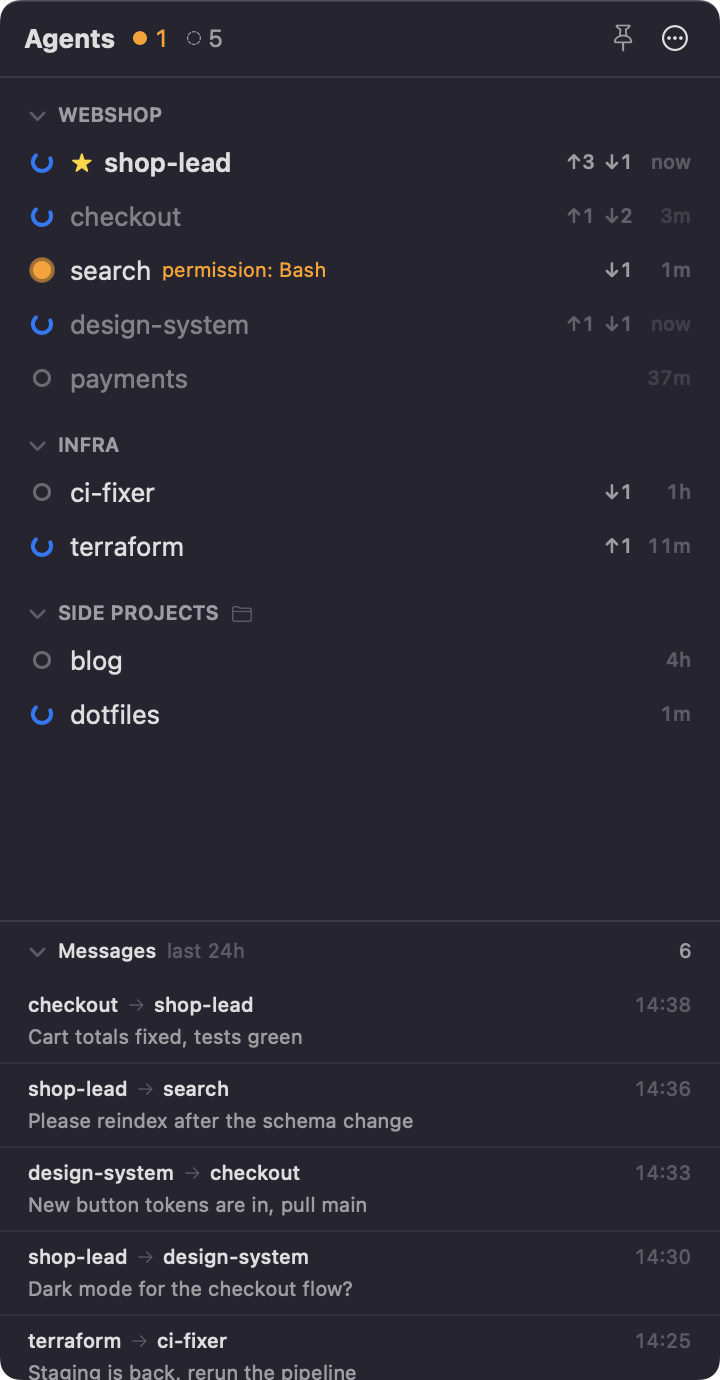
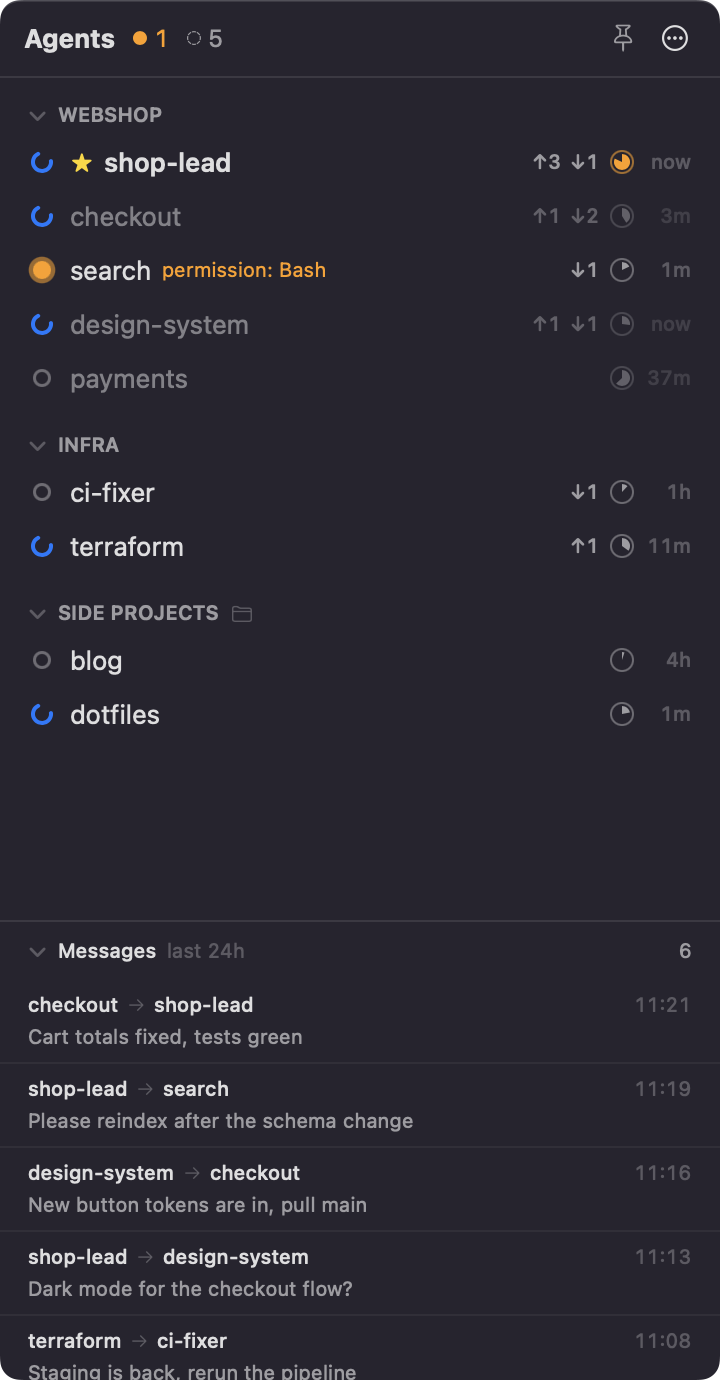
Show each session's context window usage
A small pie per agent shows how full its context window is, computed
like Claude Code does (input + cache creation + cache read tokens of the
latest main-thread response). It turns orange from 70%; hover for exact
token counts. The window size is inferred: 1M for [1m] models, model
families that default to 1M, or sessions already past 200k.

diff --git a/Sources/MaitreDAgent/Store.swift b/Sources/MaitreDAgent/Store.swift
@@ -43,6 +43,9 @@ final class Worker: @unchecked Sendable {
             Markers.remove(sessionId)
         }
 
+        // Read transcripts before building agents so context usage is current.
+        let raw = extra + transcripts.poll(sessionIds: entries.map(\.sessionId))
+
         var usedKeys = Set<String>()
         var agents: [Agent] = []
         for entry in entries {
@@ -70,11 +73,13 @@ final class Worker: @unchecked Sendable {
             agents.append(Agent(
                 sessionId: entry.sessionId, pid: entry.pid, key: key, name: name, cwd: entry.cwd,
                 repoRoot: root, entrypoint: entry.entrypoint, status: status, waitReason: waitReason,
-                reportedSince: since
+                reportedSince: since,
+                context: transcripts.contextTokens[entry.sessionId].map {
+                    ContextUsage(tokens: $0.tokens, window: ContextUsage.window(model: $0.model, peakTokens: $0.peak))
+                }
             ))
         }
 
-        let raw = extra + transcripts.poll(sessionIds: entries.map(\.sessionId))
         let liveNames = Dictionary(entries.map { ($0.sessionId, $0.name) }, uniquingKeysWith: { a, _ in a })
         let messages = raw.map { m in
             AgentMessage(
@@ -413,24 +418,25 @@ final class Store: ObservableObject {
 
 extension Store {
     func loadDemo(pretentious: Bool) {
-        func agent(_ repo: String, _ name: String, _ status: AgentStatus, _ minutes: Double, _ reason: WaitReason? = nil) -> Agent {
+        func agent(_ repo: String, _ name: String, _ status: AgentStatus, _ minutes: Double, _ context: Double, _ reason: WaitReason? = nil) -> Agent {
             var agent = Agent(
                 sessionId: UUID().uuidString, pid: 0, key: "/demo/\(repo)|\(name)", name: name, cwd: "/demo/\(repo)",
-                repoRoot: "/demo/\(repo)", entrypoint: "claude-vscode", status: status, waitReason: reason, reportedSince: nil
+                repoRoot: "/demo/\(repo)", entrypoint: "claude-vscode", status: status, waitReason: reason, reportedSince: nil,
+                context: ContextUsage(tokens: Int(context * 1_000_000), window: 1_000_000)
             )
             agent.since = Date().addingTimeInterval(-minutes * 60)
             return agent
         }
         agents = [
-            agent("webshop", "shop-lead", .working, 1),
-            agent("webshop", "checkout", .working, 4),
-            agent("webshop", "search", .needsMe, 2, .permission(tool: "Bash")),
-            agent("webshop", "design-system", .working, 0),
-            agent("webshop", "payments", .idle, 38),
-            agent("infra", "terraform", .working, 12),
-            agent("infra", "ci-fixer", .idle, 95),
-            agent("blog", "blog", .idle, 300),
-            agent("dotfiles", "dotfiles", .working, 2),
+            agent("webshop", "shop-lead", .working, 1, 0.82),
+            agent("webshop", "checkout", .working, 4, 0.41),
+            agent("webshop", "search", .needsMe, 2, 0.18, .permission(tool: "Bash")),
+            agent("webshop", "design-system", .working, 0, 0.27),
+            agent("webshop", "payments", .idle, 38, 0.63),
+            agent("infra", "terraform", .working, 12, 0.35),
+            agent("infra", "ci-fixer", .idle, 95, 0.12),
+            agent("blog", "blog", .idle, 300, 0.05),
+            agent("dotfiles", "dotfiles", .working, 2, 0.22),
         ]
 
         func message(_ minutes: Double, _ from: String, _ to: String, _ summary: String, _ text: String = "") -> AgentMessage {

diff --git a/Sources/MaitreDAgent/Sources.swift b/Sources/MaitreDAgent/Sources.swift
@@ -142,6 +142,7 @@ final class Transcripts {
     private static let maxScan: UInt64 = 16 << 20
     private static let sendPattern = Data(#""name":"SendMessage""#.utf8)
     private static let namePattern = Data(#""type":"agent-name""#.utf8)
+    private static let usagePattern = Data(#""cache_read_input_tokens""#.utf8)
     private static let newline = UInt8(ascii: "\n")
 
     private struct Tail {
@@ -154,6 +155,8 @@ final class Transcripts {
     private var seen = Set<String>()
     /// Session names recorded in transcripts, for senders that are no longer running.
     private(set) var agentNames: [String: String] = [:]
+    /// Context tokens of each session's latest main-thread API response, plus its model and peak.
+    private(set) var contextTokens: [String: (tokens: Int, model: String, peak: Int)] = [:]
 
     private let isoFull: ISO8601DateFormatter = {
         let f = ISO8601DateFormatter()
@@ -231,6 +234,10 @@ final class Transcripts {
     }
 
     private func parse(_ data: Data, sessionId: String) -> [RawMessage] {
+        if let usage = latestUsage(in: data) {
+            let peak = max(usage.tokens, contextTokens[sessionId]?.peak ?? 0)
+            contextTokens[sessionId] = (usage.tokens, usage.model, peak)
+        }
         var messages: [RawMessage] = []
         for line in lines(in: data, containing: Self.namePattern) {
             if let obj = (try? JSONSerialization.jsonObject(with: line)) as? [String: Any],
@@ -269,6 +276,29 @@ final class Transcripts {
             }
         }
         return messages
+    }
+
+    /// The last main-thread assistant response with token usage in this chunk.
+    private func latestUsage(in data: Data) -> (tokens: Int, model: String)? {
+        var searchEnd = data.endIndex
+        while searchEnd > data.startIndex,
+              let match = data.range(of: Self.usagePattern, options: .backwards, in: data.startIndex..<searchEnd) {
+            var start = match.lowerBound
+            while start > data.startIndex && data[start - 1] != Self.newline { start -= 1 }
+            let end = data[match.upperBound...].firstIndex(of: Self.newline) ?? data.endIndex
+            searchEnd = start
+            guard let obj = (try? JSONSerialization.jsonObject(with: data[start..<end])) as? [String: Any],
+                  obj["type"] as? String == "assistant",
+                  obj["isSidechain"] as? Bool != true,
+                  let message = obj["message"] as? [String: Any],
+                  let usage = message["usage"] as? [String: Any] else { continue }
+            let model = message["model"] as? String ?? ""
+            let tokens = ["input_tokens", "cache_creation_input_tokens", "cache_read_input_tokens"]
+                .reduce(0) { $0 + ((usage[$1] as? Int) ?? 0) }
+            if tokens == 0 || model.hasPrefix("<") { continue } // synthetic messages
+            return (tokens, model)
+        }
+        return nil
     }
 
     /// Whole lines that contain the pattern, without splitting every line of a large chunk.

diff --git a/Sources/MaitreDAgent/Views.swift b/Sources/MaitreDAgent/Views.swift
@@ -308,6 +308,9 @@ private struct AgentRow: View {
                 }
                 Spacer(minLength: 4)
                 MessageBadges(sent: store.sentCounts[agent.name] ?? 0, received: store.receivedCounts[agent.name] ?? 0, copy: store.copy)
+                if let context = agent.context {
+                    ContextRing(usage: context).help(store.copy.contextHelp(context))
+                }
                 Text(shortDuration(store.now.timeIntervalSince(agent.since)))
                     .font(.caption2.monospacedDigit())
                     .foregroundStyle(.tertiary)
@@ -375,6 +378,37 @@ private struct MessageBadges: View {
         .font(.caption2.monospacedDigit())
         .foregroundStyle(.secondary)
         .help(copy.badgeHelp(sent: sent, received: received))
+    }
+}
+
+/// Context window fill as a small pie (a ring would read as the "working" spinner).
+/// Turns orange once it's worth compacting.
+private struct ContextRing: View {
+    let usage: ContextUsage
+
+    private var color: Color { usage.fraction >= 0.7 ? .orange : .secondary }
+
+    var body: some View {
+        ZStack {
+            Circle().strokeBorder(color.opacity(0.6), lineWidth: 1)
+            PieSlice(fraction: usage.fraction).fill(color).padding(2)
+        }
+        .frame(width: 12, height: 12)
+    }
+}
+
+private struct PieSlice: Shape {
+    let fraction: Double
+
+    func path(in rect: CGRect) -> Path {
+        var path = Path()
+        guard fraction > 0 else { return path }
+        let center = CGPoint(x: rect.midX, y: rect.midY)
+        path.move(to: center)
+        path.addArc(center: center, radius: min(rect.width, rect.height) / 2,
+                    startAngle: .degrees(-90), endAngle: .degrees(-90 + 360 * fraction), clockwise: false)
+        path.closeSubpath()
+        return path
     }
 }
 

diff --git a/Sources/MaitreDAgent/Models.swift b/Sources/MaitreDAgent/Models.swift
@@ -40,9 +40,36 @@ struct Agent: Identifiable, Equatable {
     let waitReason: WaitReason?
     /// Registry timestamp of the last status change, if known.
     let reportedSince: Date?
+    let context: ContextUsage?
     var since: Date = .distantPast
 
     var id: String { key }
+}
+
+/// How full a session's context window is, from its latest API response.
+struct ContextUsage: Equatable {
+    let tokens: Int
+    let window: Int
+
+    var fraction: Double { min(1, Double(tokens) / Double(window)) }
+    var percent: Int { Int((fraction * 100).rounded()) }
+
+    /// Claude Code doesn't record the window size in the transcript, so infer it:
+    /// a `[1m]` model, a model family known to default to 1M, or usage already past 200k.
+    static func window(model: String, peakTokens: Int) -> Int {
+        let model = model.lowercased()
+        let oneMillion = ["claude-opus-5", "claude-fable-5", "claude-sonnet-5", "claude-mythos", "claude-opus-4-7", "claude-opus-4-8"]
+        if model.contains("[1m]") || oneMillion.contains(where: model.hasPrefix) || peakTokens > 200_000 {
+            return 1_000_000
+        }
+        return 200_000
+    }
+}
+
+func shortTokens(_ tokens: Int) -> String {
+    if tokens >= 1_000_000 { return String(format: "%.1fM", Double(tokens) / 1_000_000).replacingOccurrences(of: ".0M", with: "M") }
+    if tokens >= 1000 { return "\(tokens / 1000)k" }
+    return "\(tokens)"
 }
 
 struct AgentMessage: Identifiable, Equatable {

diff --git a/Sources/MaitreDAgent/App.swift b/Sources/MaitreDAgent/App.swift
@@ -26,7 +26,7 @@ enum Main {
         if arguments.contains("--dump") {
             let snapshot = Worker().snapshotOnce()
             for agent in snapshot.agents {
-                print("\(Copy.normal.status(agent.status).padding(toLength: 10, withPad: " ", startingAt: 0)) \(agent.name)  [\(agent.repoRoot)]\(agent.waitReason.map { "  (\(Copy.normal.reason($0)))" } ?? "")")
+                print("\(Copy.normal.status(agent.status).padding(toLength: 10, withPad: " ", startingAt: 0)) \(agent.name)  [\(agent.repoRoot)]\(agent.waitReason.map { "  (\(Copy.normal.reason($0)))" } ?? "")\(agent.context.map { "  ctx \($0.percent)% \(shortTokens($0.tokens))/\(shortTokens($0.window))" } ?? "")")
             }
             print("\(snapshot.messages.count) messages in the last 24h")
             for message in snapshot.messages.sorted(by: { $0.date > $1.date }).prefix(10) {

diff --git a/Sources/MaitreDAgent/Copy.swift b/Sources/MaitreDAgent/Copy.swift
@@ -66,6 +66,13 @@ struct Copy {
     }
     var moveToGroup: String { pretentious ? "Move to Table" : "Move to Group" }
 
+    // MARK: Context window
+
+    func contextHelp(_ usage: ContextUsage) -> String {
+        let amounts = "\(shortTokens(usage.tokens)) of \(shortTokens(usage.window)) tokens"
+        return pretentious ? "\(usage.percent)% full. \(amounts)" : "Context: \(usage.percent)% · \(amounts)"
+    }
+
     // MARK: Messages
 
     var messagesTitle: String { pretentious ? "Notes between tables" : "Messages" }

diff --git a/README.md b/README.md
@@ -16,6 +16,7 @@ A small macOS menu-bar app for anyone running several Claude Code sessions in pa
 - **Grouping**: sessions are grouped by git repo automatically, and worktrees join their main repo. Make your own groups and drag agents between them.
 - **Manual order**: drag agents and groups into the order you want. The order survives restarts.
 - **Lead agents**: if one agent per project coordinates the others, mark it as lead. It moves to the top with a ★ and the rest of its group fades slightly. Agents that need you never fade.
+- **Context window**: a small pie per agent shows how full its context is, and turns orange from 70% so you know when to compact. Hover for exact token counts.
 - **Agent-to-agent messages**: each agent shows how many `SendMessage` messages it sent and received in the last 24h (↑ sent ↓ received). A feed lists them; click one for the full text.
 - **Jump to the session**: click an agent to bring its VS Code window forward and open its Claude tab.
 - **Notifications** when an agent starts needing you.
@@ -51,6 +52,7 @@ Everything is read from local files. The app makes no network requests.
 | Running sessions, names, working/idle | `~/.claude/sessions/<pid>.json`, the session registry Claude Code maintains |
 | Needs you | Marker files written by `~/.maitre-d-agent/hook.sh` on `PermissionRequest`, `AskUserQuestion` and `ExitPlanMode`, and removed when the session continues. Also the registry's `waiting` status. |
 | Messages | `SendMessage` tool calls in the session transcripts, `~/.claude/projects/*/<session>.jsonl` |
+| Context window | Token usage of the latest API response in the transcript (`input + cache_creation + cache_read`). The window size isn't recorded, so it's inferred: 1M for `[1m]` models, model families that default to 1M, or sessions already past 200k; otherwise 200k. |
 | Groups | The git common dir of each session's working directory |
 
 Your groups, leads, order and settings are stored in `~/.maitre-d-agent/config.json`. Leads and order are keyed by repo plus session name, so they carry over when you restart or resume a session. Giving agents names (`/rename`) makes this work best.
